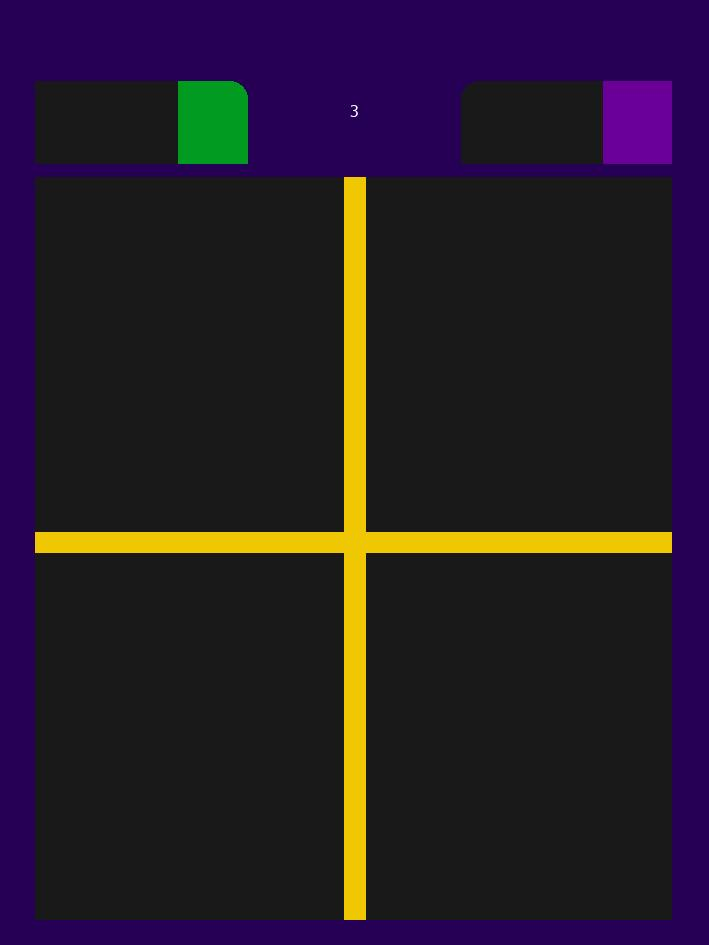
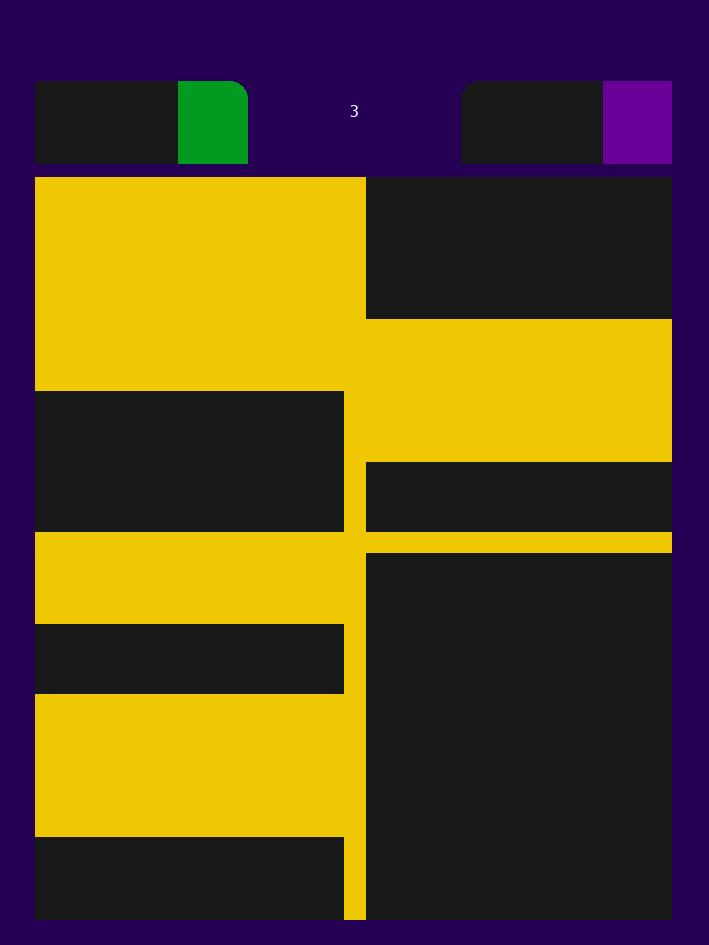
feat: generate attribute back bands

Changed region(s): [[0.031, 0.1841, 0.9619, 0.491], [0.031, 0.7058, 0.4965, 0.8899], [0.031, 0.5831, 0.4965, 0.6751]]

diff --git a/card-generation/generator.py b/card-generation/generator.py
@@ -99,6 +99,7 @@ def generate_back_card_face(card: dict, language):
     # load front background image
     back_image = Image.open(IMAGE_PATH + 'card_back.jpg')
 
+    # add score markers
     back_image.putalpha(255)
     if card['red']:
         back_image.paste(RED_MARKER, (0, 0), RED_MARKER)
@@ -121,6 +122,34 @@ def generate_back_card_face(card: dict, language):
     length = draw.textlength(card['id'], font)
     draw.text(((back_image.width - length)/2, 100), card['id'], (255, 255, 255),
               font=font, align='center')
+
+    # generate attribute bars
+    left_border = 35
+    top_border = 177
+    mid_left = 343
+    mid_right = 366
+    right_border = 671
+
+    mid_offset = 20
+    band_height = 71
+
+    for i in range(20):
+        if card['attr_' + str(i)]:
+            row = i % 10
+            if i < 10:
+                x1 = left_border
+                x2 = mid_left
+            else:
+                x1 = mid_right
+                x2 = right_border
+            if i % 10 < 5:
+                y1 = top_border + row * band_height
+                y2 = top_border + (row + 1) * band_height
+            else:
+                y1 = top_border + row * band_height + mid_offset
+                y2 = top_border + (row + 1) * band_height + mid_offset
+            draw.rectangle((x1, y1, x2, y2),
+                           fill=(239, 199, 3))
 
     # save image in language folder
     final_image = Image.new("RGB", back_image.size, (255, 255, 255))
